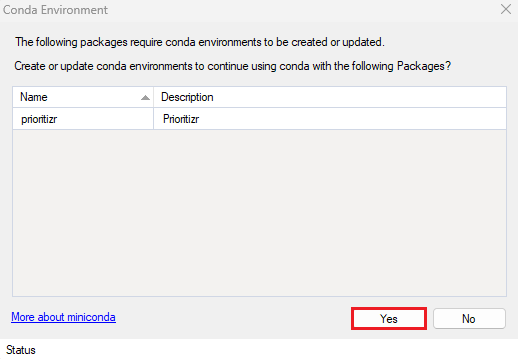
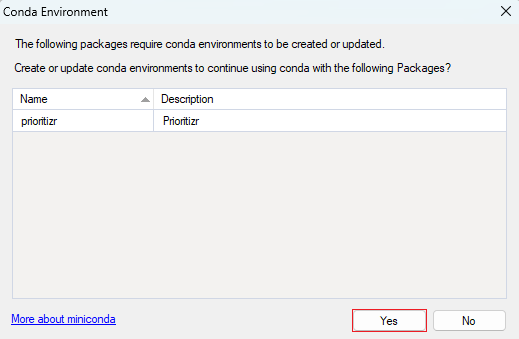
Updates to getting_started.md

diff --git a/docs/getting_started.md b/docs/getting_started.md
@@ -29,26 +29,24 @@ Running **prioritizr** requires that SyncroSim be installed on your computer. Do
 
 3\. The *Local Packages* window will open, listing all the SyncroSim packages installed on your computer. If you do not have any packages installed yet, this window will be empty. To install a new package from the Package Server, click on **Install from Server...**. 
 
-<!--Add image here of red box around Install from Server... in Local Packages window-->
+<img align="center" style="padding: 13px" width="600" src="assets/images/screenshot2.png">
 
 4\. A new window will open listing the packages available to install from the Package Server. To install **prioritizr**, click the checkbox beside the package name and select **OK**. 
 
-<!--Add image here of red box around checkbox beside prioritizr package name, and OK button-->
+<!--Once prioritizr is on the server --- Add image here of red box around checkbox beside prioritizr package name, and OK button-->
 
 5\. The **prioritizr** SyncroSim package uses Conda to manage the package dependencies. Upon installing the package, you will be prompted to install Conda if it is not already installed on your computer. Then, you will be prompted to create or update the Conda environment for **prioritzr**. Click **Yes**.
 
 <img align="center" style="padding: 13px" width="600" src="assets/images/screenshot4.png">
-<!-- Update screenshot so the window is active and "Status" doesn't show in the bottom of the screenshot -->
 
 6\. Return to the *Local Packages* window. **prioritizr** will now be listed along with the other installed packages and the Conda checkbox will be marked.
 
 <img align="center" style="padding: 13px" width="600" src="assets/images/screenshot5.png">
-<!-- Update screenshot so only the Local Packages tab is shown, without the top toolbar and bottom status bar -->
 
 ## **Next steps**
 
 Once the requirements have been installed, the following tutorials will cover the basics of **prioritizr** SyncroSim for building and solving conservation planning problems. 
-1. <a href="./tutorials/spatial_formulation_tutorial">Spatial formulation with prioritizr SyncroSim/a>
+1. <a href="./tutorials/spatial_formulation_tutorial">Spatial formulation with prioritizr SyncroSim<a>
 2. <a href="./tutorials/tabular_formulation_tutorial">Tabular formulation with prioritizr SyncroSim</a>
 3. <a href="./tutorials/climate_refugia_prioritization_tutorial">Climate Refugia Prioritization with prioritizr SyncroSim</a>
 <!-- Update list with new tutorial(s) when all tutorials are done (next week) -->
